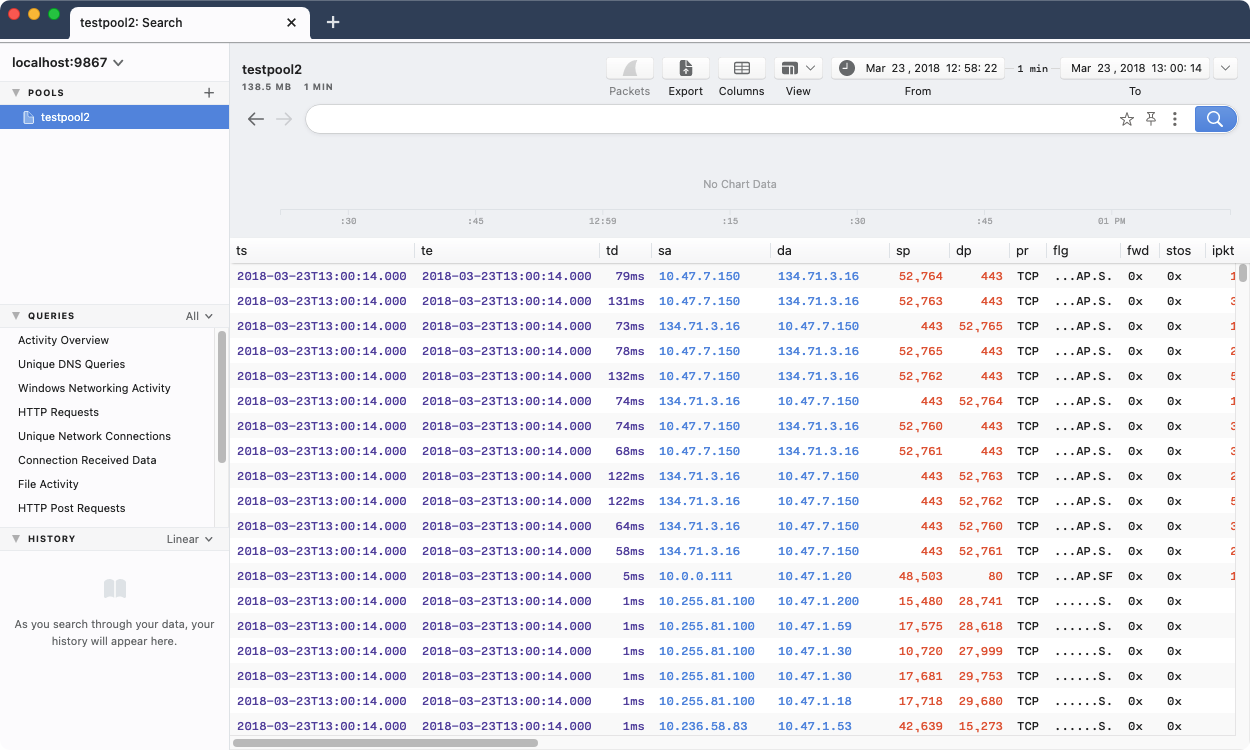
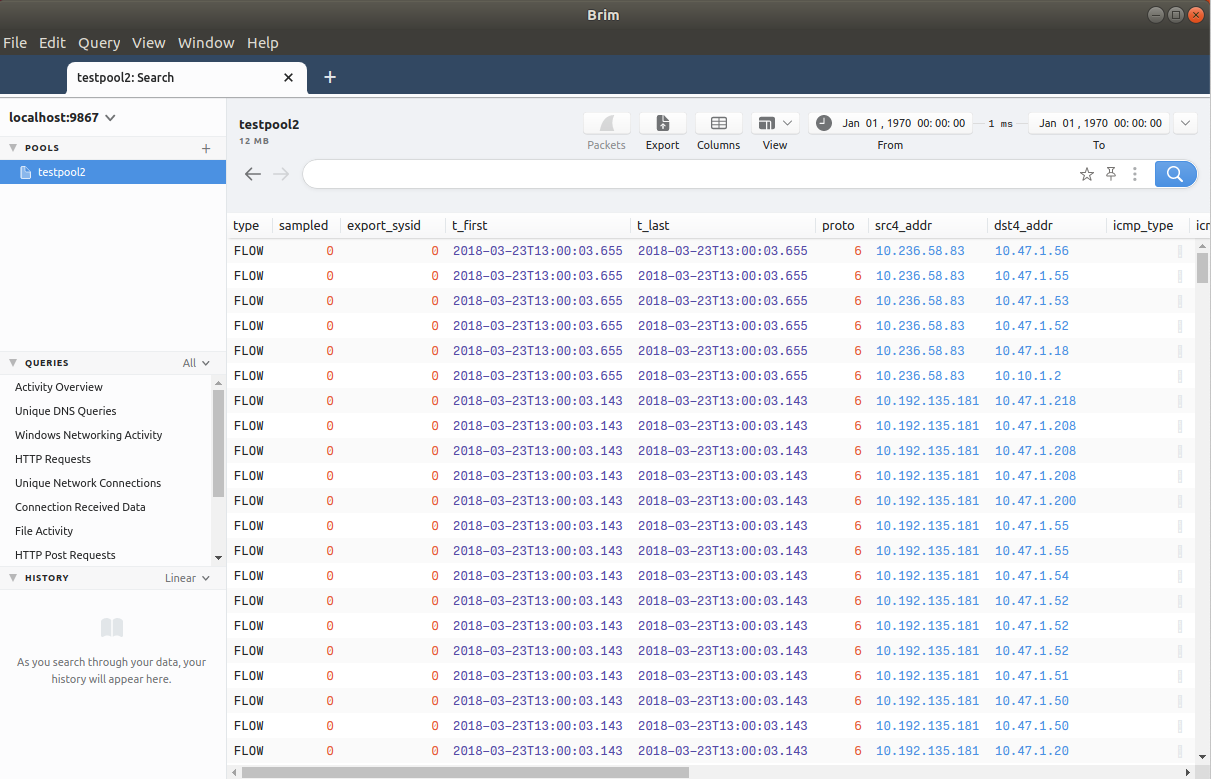
Use JSON rather than CSV hack (#170)

diff --git a/docs/Custom-Brimcap-Config.md b/docs/Custom-Brimcap-Config.md
@@ -34,8 +34,8 @@ pcaps. The article then closes with some [Debug](#debug) tips.
 
 ## Background
 
-Brim release `v0.25.0` bundles Zeek and Suricata binaries differently than
-`v0.24.0`. A brief summary:
+Starting with Brim release `v0.25.0`, Zeek and Suricata binaries are bundled
+differently than they were in release `v0.24.0` and older. A brief summary:
 
 * **`v0.24.0` and older** - The "backend" `zqd` process that ran behind the
 Brim app handled the launching of Zeek and Suricata binaries each time a pcap
@@ -218,12 +218,12 @@ analyzers:
 ...
 ```
 
-What follows below the `globs:` setting is a Zed shaper configuration. Whereas
+What follows below the `globs:` setting is a Zed shaper script. Whereas
 the Zeek TSV logs contain Zed-compatible rich data types (timestamps, IP
 addresses, etc.), since Suricata's EVE logs are NDJSON, here we use this shaper
-config to assign better data types as the NDJSON is being converted for storage
+to assign better data types as the NDJSON is being converted for storage
 into the Zed Lake. Out-of-the-box, Brimcap automatically applies this same
-shaping configuration on the EVE output generated from its bundled Suricata.
+shaper script on the EVE output generated from its bundled Suricata.
 Here it's broken out and made part of the configuration YAML such that you can
 further modify it to suit your needs.
 ```
@@ -279,8 +279,8 @@ further modify it to suit your needs.
       filter event_type=="alert" | put this := shape(alert) | rename ts := timestamp
 ```
 
-A full description of all that's possible with shaping configurations is beyond
-the scope of this article. However, this configuration is quite simple and can
+A full description of all that's possible with shapers is beyond
+the scope of this article. However, this script is quite simple and can
 be described in brief.
 
 1. The `type alert` defines the names, [data types](https://github.com/brimdata/zed/blob/main/docs/formats/zson.md#33-primitive-values),
@@ -357,81 +357,43 @@ cat - > "$TMPFILE"
 rm "$TMPFILE"
 for file in nfcapd.*
 do
-  /usr/local/bin/nfdump -r $file -o csv | head -n -3 | /opt/Brim/resources/app.asar.unpacked/zdeps/zq -i csv - > ${file}.zng
+  /usr/local/bin/nfdump -r $file -o json > ${file}.json
 done
 ```
 
-> **Note:** The inclusion of `zq -i csv` in the pipeline works around a Brimcap
-> limitation that only log formats auto-detected by the Zed platform can
-> currently be read. Therefore this call to `zq` turns the CSV into
-> ZNG, then the minimally-typed records in the ZNG are still enhanced by the
-> shaper configuration shown below. When either Brimcap is enhanced to allow
-> the explicit specification of input formats
-> ([brimcap/80](https://github.com/brimdata/brimcap/issues/80))
-> or Zed is enhanced to auto-detect more formats such as CSV
-> ([zed/2517](https://github.com/brimdata/zed/issues/2517))
-> this workaround will no longer be necessary.
-
-This script is called from our Brimcap config YAML, which includes a
-`globs:` setting to target only the needed files and also a Zed shaper to apply
-richer data types.
+This script is called from our Brimcap config YAML, which includes a `globs:`
+setting to apply a Zed shaper to only the JSON files that were output from
+nfdump.
 
 ```
 $ cat nfdump.yml 
 analyzers:
   - cmd: /usr/local/bin/nfdump-wrapper.sh
     name: nfdump
-    globs: ["*.zng"]
+    globs: ["*.json"]
     shaper: |
       type netflow = {
-        ts: time,
-        te: time,
-        td: duration,
-        sa: ip,
-        da: ip,
-        sp: uint16,
-        dp: uint16,
-        pr: string,
-        flg: string,
-        fwd: bytes,
-        stos: bytes,
-        ipkt: uint64,
-        ibyt: uint64,
-        opkt: uint64,
-        obyt: uint64,
-        in: uint64,
-        out: uint64,
-        sas: uint64,
-        das: uint64,
-        smk: uint8,
-        dmk: uint8,
-        dtos: bytes,
-        dir: uint8,
-        nh: ip,
-        nhb: ip,
-        svln: uint16,
-        dvln: uint16,
-        ismc: string,
-        odmc: string,
-        idmc: string,
-        osmc: string,
-        mpls1: string,
-        mpls2: string,
-        mpls3: string,
-        mpls4: string,
-        mpls5: string,
-        mpls6: string,
-        mpls7: string,
-        mpls8: string,
-        mpls9: string,
-        mpls10: string,
-        cl: float64,
-        sl: float64,
-        al: float64,
-        ra: ip,
-        eng: string,
-        exid: bytes,
-        tr: time
+        type: string,
+        sampled: int64,
+        export_sysid: int64,
+        t_first: time,
+        t_last: time,
+        proto: int64,
+        src4_addr: ip,
+        dst4_addr: ip,
+        icmp_type: int64,
+        icmp_code: int64,
+        src_port: uint16,
+        dst_port: uint16,
+        fwd_status: int64,
+        tcp_flags: string,
+        src_tos: int64,
+        in_packets: int64,
+        in_bytes: int64,
+        cli_latency: float64,
+        srv_latency: float64,
+        app_latency: float64,
+        label: string
       }
       put this := shape(netflow)
 ```
